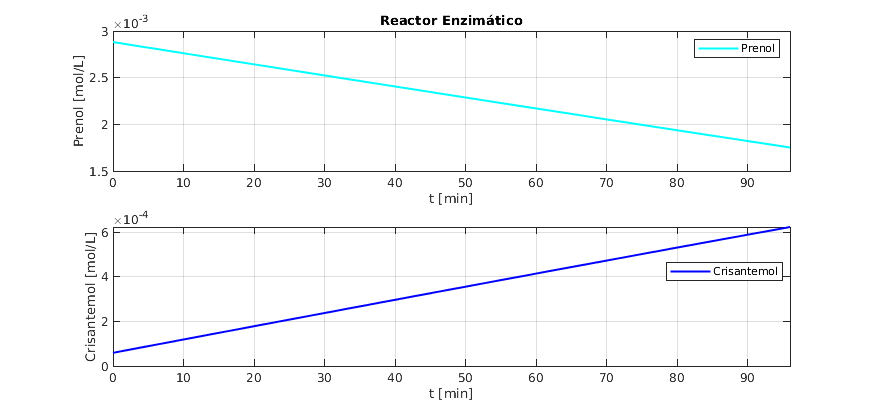
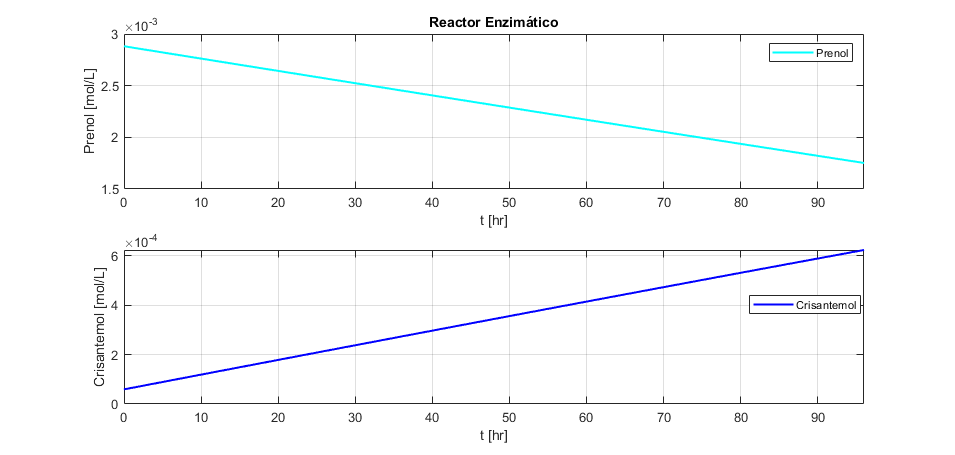
Gráficos actualizados

diff --git a/E2/Producción Enzima/macro.m b/E2/Producción Enzima/macro.m
@@ -54,13 +54,13 @@ figure(3);
 subplot(2,1,1);
 plot(t-25,S,'-c','linewidth',1.5); grid on;
 title('Reactor Enzimático')
-xlabel('t [min]')
+xlabel('t [hr]')
 ylabel('Prenol [mol/L]')
 legend('Prenol')
 xlim([25-25 121-25])
 subplot(2,1,2);
 plot(t-25,P,'-b','linewidth',1.5); grid on;
-xlabel('t [min]')
+xlabel('t [hr]')
 ylabel('Crisantemol [mol/L]')
 legend('Crisantemol')
 xlim([25-25 121-25])
@@ -86,7 +86,7 @@ plot(t,Ac,'-k','linewidth',1.5); hold off
 legend('AHM','EtAc','AAM','Etan','Ac')
 xlabel('t [min]')
 ylabel('Unidades [mol/L]')
-title('Reactor Químico')
+title('Reactor Enzimático 2')
 xlim([0 121])
 
 subplot(2,1,2);
